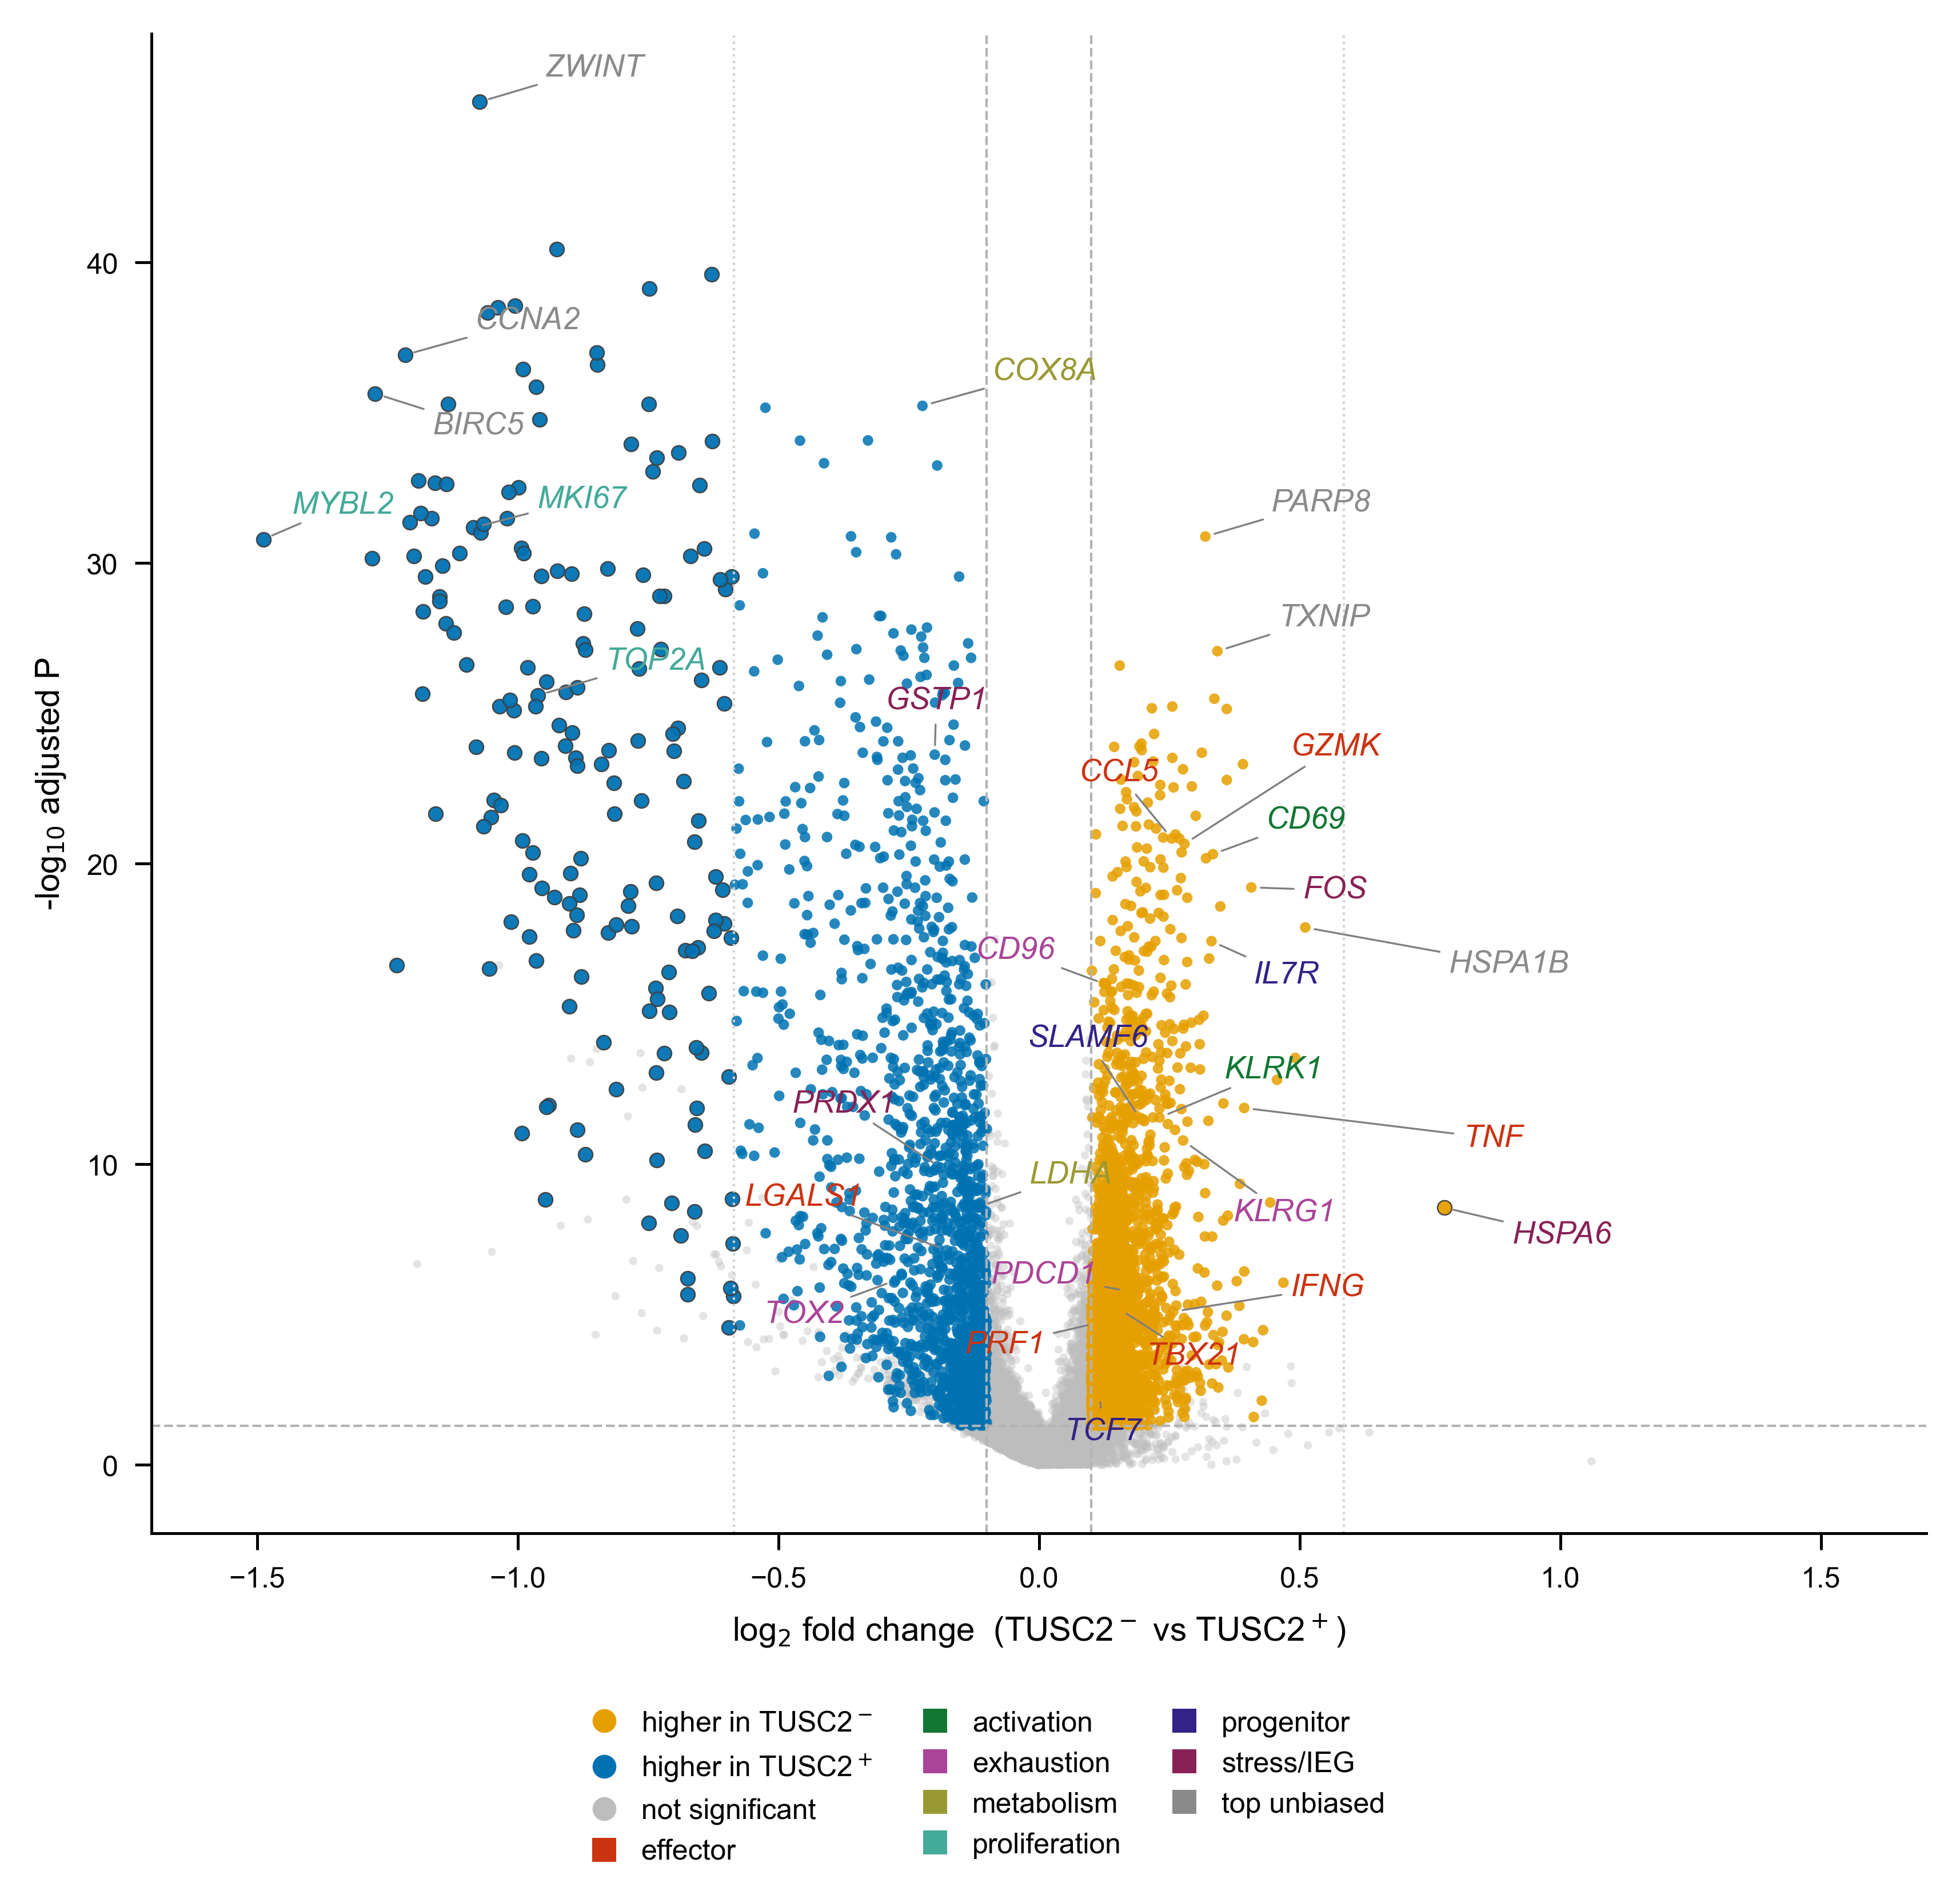
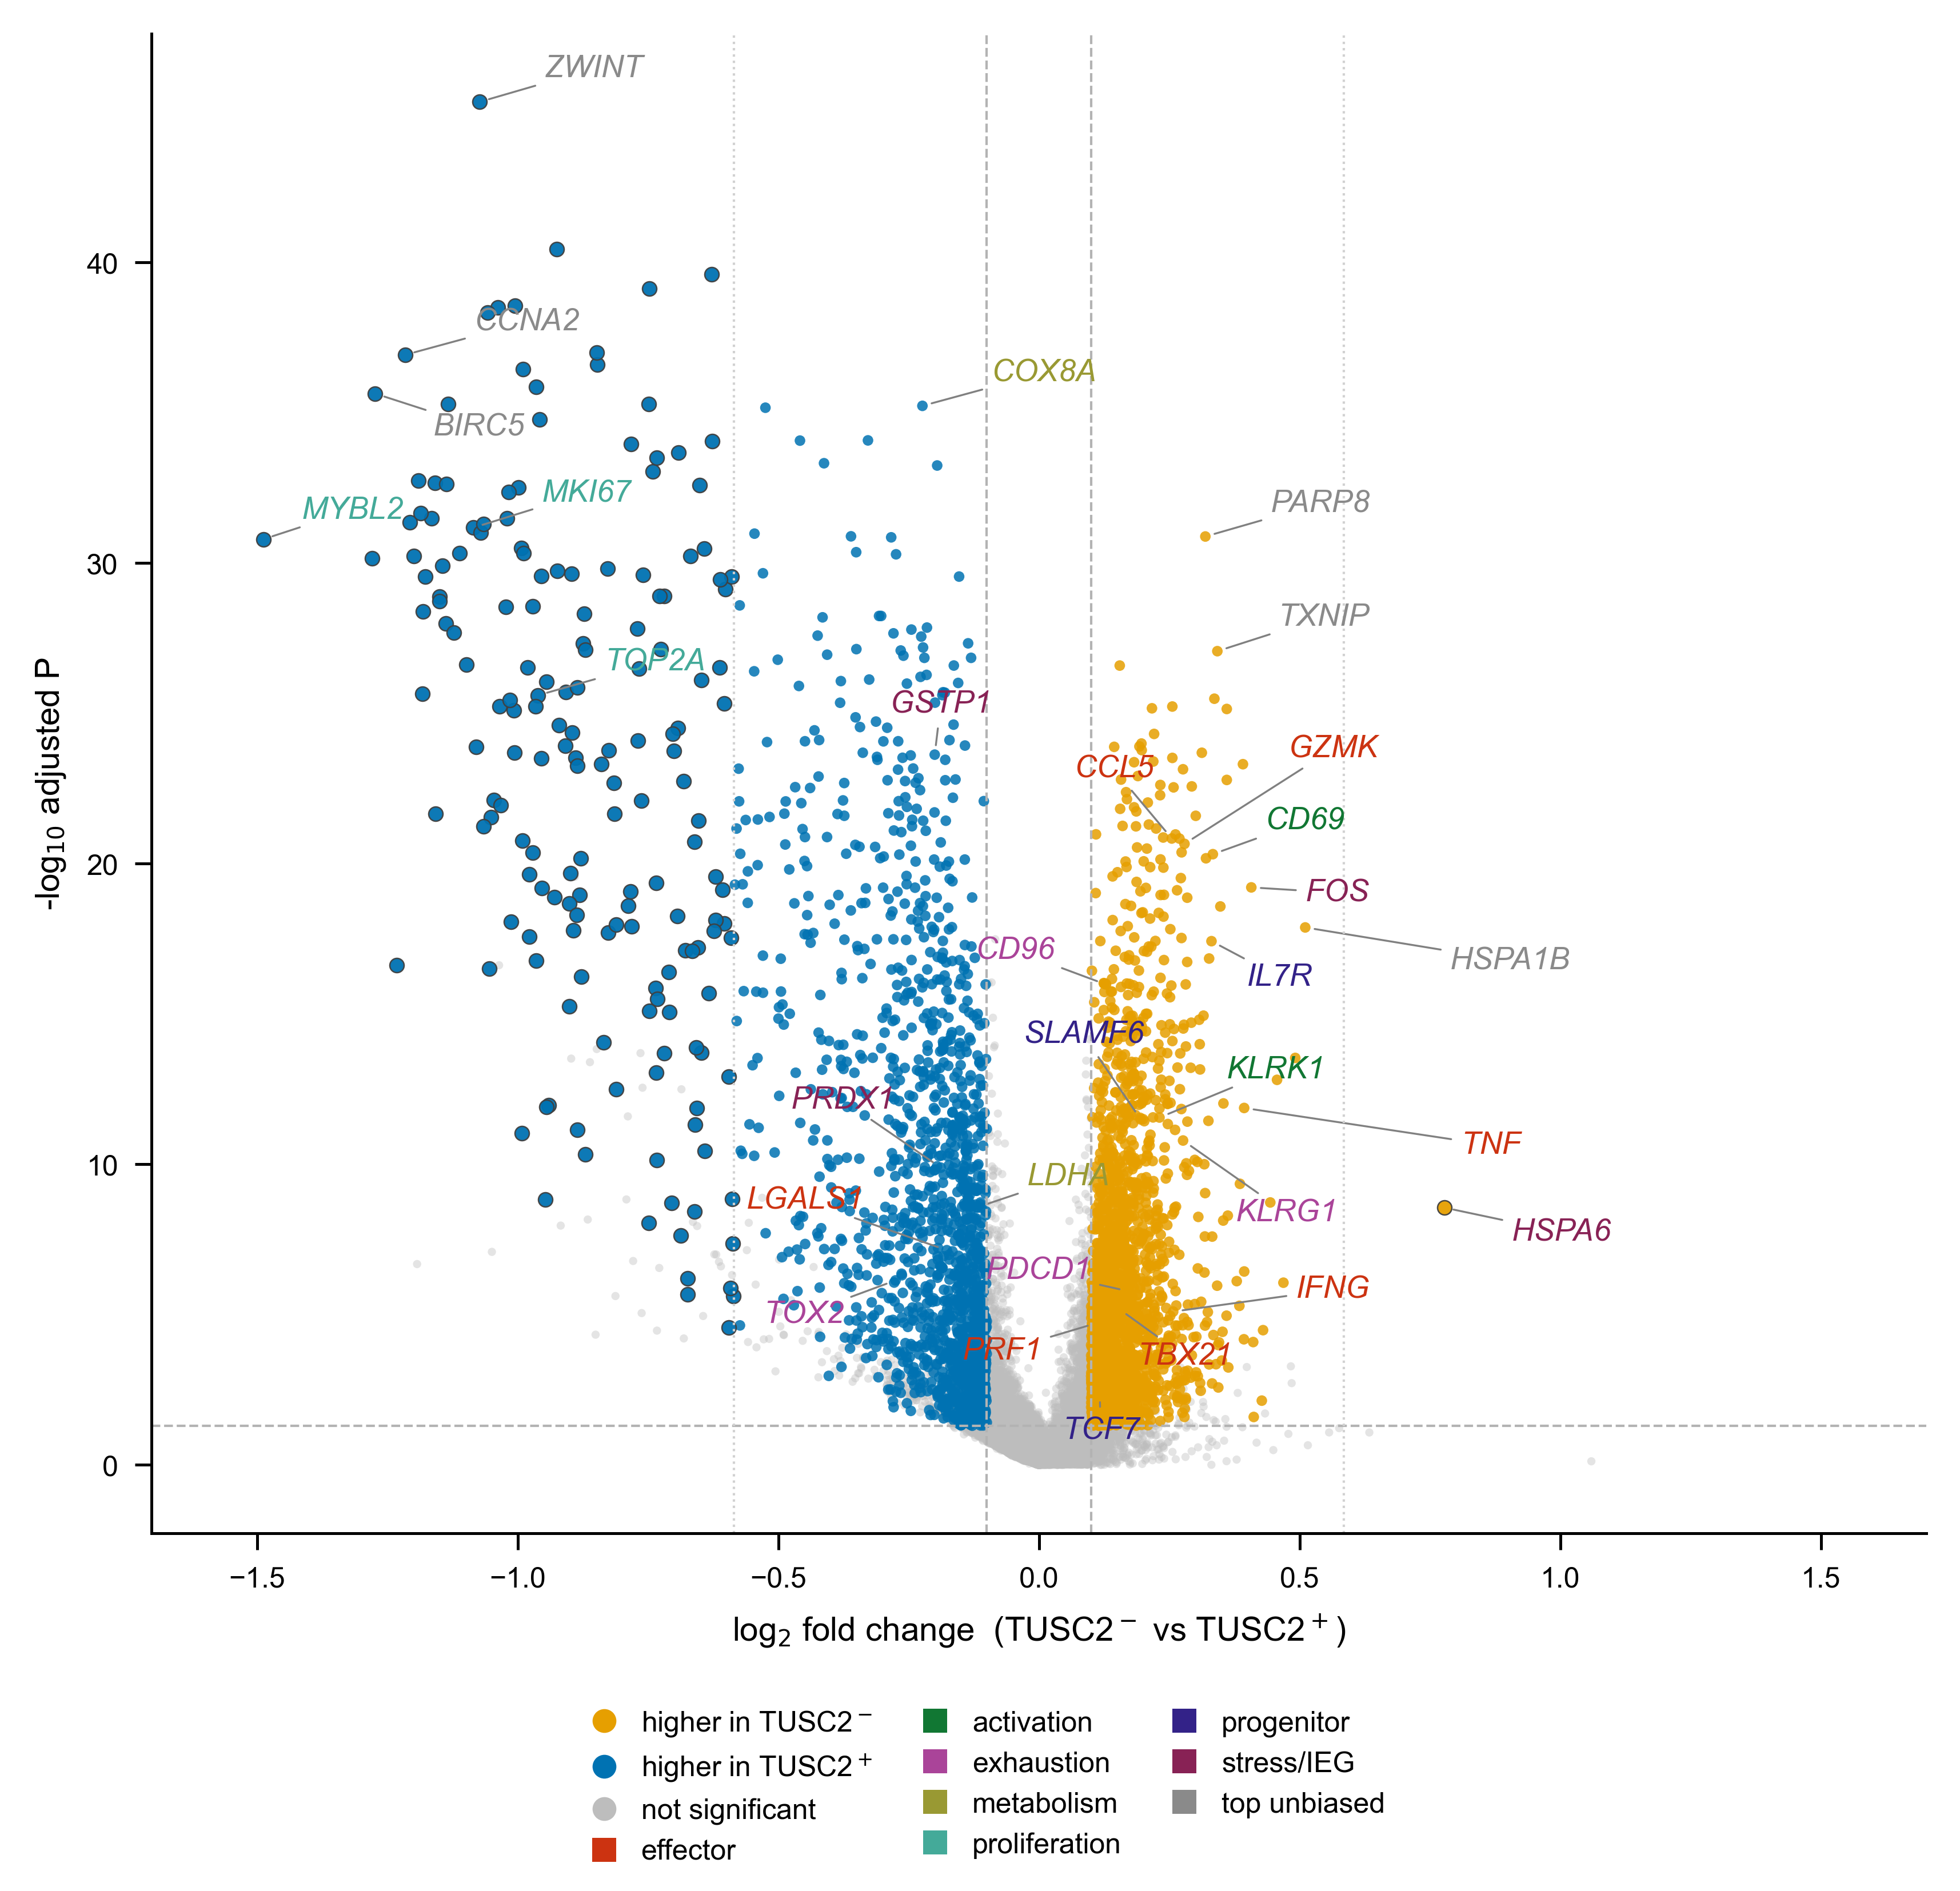
Final Project Updates
DOI, Supplementary, Readme cleanup and additions

diff --git a/README.md b/README.md
@@ -20,10 +20,14 @@ collect_supplementary.py     # gathers S1-S4 + Table S1 into supplementary/
 make_supplementary_xlsx.py   # merges the collected files into one workbook
 tusc2_deg/
 ├── paths.py                 # input-data paths (only needed for the from-raw path)
+├── gene_sets/               # vendored MSigDB Hallmark .grp sets (panel B + GSEA)
 ├── nk/                      # NK pipeline  (Tang 2023)
 ├── cd8/                     # CD8 pipeline (huARdb v2, Xue 2025)
 │   └── output/{degs,gsea,audit}/   # cached tables that drive every panel
 └── publication/            # panel renderers (volcano, GSEA bar, running-ES)
+tests/                       # offline test suite
+figures/                     # written by reproduce.py — the 4 Figure 7 panels
+supplementary/               # written by reproduce.py — S1-S4 + Table S1 + xlsx
 ```
 
 `nk/` and `cd8/` are parallel pipelines with the same structure
@@ -130,3 +134,13 @@ MPLBACKEND=Agg python -m pytest -q
 The suite runs offline against the cached tables and injectable renderers. A
 single `slow`-marked single-cell cross-check loads a raw atlas if one is present
 and otherwise skips.
+
+## Citation
+
+This analysis code is archived at Zenodo: **10.5281/zenodo.21515707** (concept
+DOI — always resolves to the latest version). Please cite it alongside the
+accompanying publication.
+
+## License
+
+MIT — see `LICENSE`.

diff --git a/supplementary/SupplTable_S1_data_code_availability.md b/supplementary/SupplTable_S1_data_code_availability.md
@@ -1,22 +1,22 @@
 # Suppl. Table S1 — Data and code availability (Figure 7)
 
-Renderable content for the Supplementary data-and-code-availability table. All three data
-accessions were verified to the correct dataset; the code/repository DOI must be minted
-before submission (see note).
+Renderable content for the Supplementary data-and-code-availability table. All data
+accessions were verified to the correct dataset; the analysis code is archived at Zenodo
+(concept DOI, see note).
 
 | Resource | Source | Accession / DOI | Verified |
 |---|---|---|---|
 | Tumor-infiltrating NK-cell atlas (Tang et al. 2023), processed | reference 1 | Zenodo **doi:10.5281/zenodo.[phone redacted]** | ✓ |
 | Tang et al. 2023 atlas, raw sequencing | reference 1 | NCBI BioProject **PRJNA877828** (provided by the original authors upon request) | ✓ |
 | CD8⁺ T-cell atlas, huARdb v2 (Xue et al. 2025), processed | reference 2 | Zenodo **doi:10.5281/zenodo.[phone redacted]** | ✓ |
-| Analysis code + cached differential-expression / GSEA tables | this study | **repository archive DOI — to mint** | pending |
+| Analysis code + cached differential-expression / GSEA tables | this study | Zenodo **doi:10.5281/zenodo.21515707** (concept DOI — all versions) | ✓ |
 
 ## Notes
 
 - **Raw-data provenance:** the Tang raw sequencing data used here were provided by the original authors upon request; the CD8 huARdb v2 atlas (Xue et al. 2025) was obtained from its public Zenodo deposit.
 - **Code DOI:** the analysis repository (pipeline code + the cached DEG, GSEA and audit
-  tables that regenerate every panel) should be archived (e.g. a Zenodo snapshot of the tagged
-  release) and the minted DOI substituted for the Methods "(DOI at submission)" placeholder.
+  tables that regenerate every panel) is archived at Zenodo concept DOI
+  **10.5281/zenodo.21515707**, which always resolves to the latest version.
 - **huARdb DOI reconciliation:** the CD8 atlas used here is **huARdb v2**, described in **Xue et
   al., *Nat Methods* 2025;22(2):435-445 (doi:10.1038/s41592-024-02530-0)** with the processed
   data at **Zenodo 12542577** — that is the pairing to cite. The separate *Nucleic Acids Res*